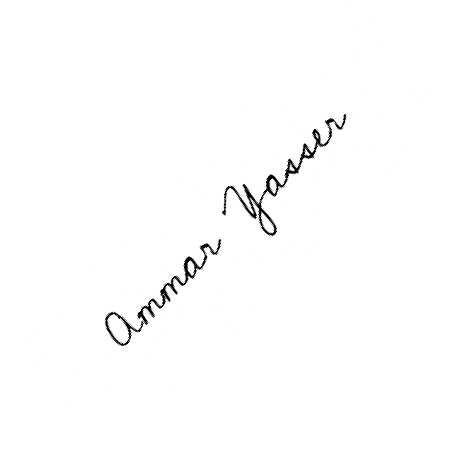
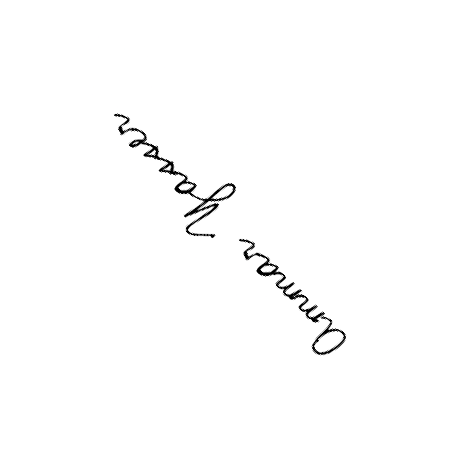
feat: add validation for image rotation and test cases
- Validate that the rotation angle is an integer.
- Check for the presence of the image ID.
- Add test cases to ensure the image rotation logic works correctly.
- Implement error handling for invalid angles and missing parameters.

diff --git a/api/tests/test_rotate_image.py b/api/tests/test_rotate_image.py
@@ -1,0 +1,60 @@
+from rest_framework.test import APITestCase
+from rest_framework import status
+from django.urls import reverse
+from django.core.files.uploadedfile import SimpleUploadedFile
+from PIL import Image
+import io
+from api.models import UploadedImage
+
+class TestRotateImageEndpoint(APITestCase):
+    valid_payload = {
+        'id': 1,  # Example image ID
+        'angle': 90  # Example rotation angle
+    }
+
+    def setUp(self):
+        # Create a valid image using PIL
+        image = Image.new('RGB', (100, 100), color='red')  # Create a red image of size 100x100
+        image_file = io.BytesIO()
+        image.save(image_file, format='JPEG')  # Save the image into the BytesIO object
+        image_file.seek(0)  # Go to the start of the BytesIO object
+        
+        # Create an image in the database
+        self.image = UploadedImage.objects.create(id=1, file=SimpleUploadedFile('test_image.jpg', image_file.read(), content_type='image/jpeg'))
+
+    def test_rotate_image_success(self):
+        url = reverse('rotate-image')
+        response = self.client.post(url, self.valid_payload, format='json')
+
+        print(response.data)  # Debugging response data to check any issues
+        self.assertEqual(response.status_code, status.HTTP_200_OK)
+        self.assertEqual(response.data['message'], 'Image rotated successfully.')
+
+    def test_rotate_image_invalid_angle(self):
+        invalid_payload = {
+            'id': 1,
+            'angle': 'invalid_angle'  # Invalid angle value
+        }
+        url = reverse('rotate-image')
+        response = self.client.post(url, invalid_payload, format='json')
+        self.assertEqual(response.status_code, status.HTTP_400_BAD_REQUEST)
+        self.assertEqual(response.data['error'], 'Angle must be a valid integer.')
+
+    def test_rotate_image_missing_parameters(self):
+        incomplete_payload = {
+            'id': 1  # Missing 'angle'
+        }
+        url = reverse('rotate-image')
+        response = self.client.post(url, incomplete_payload, format='json')
+        self.assertEqual(response.status_code, status.HTTP_400_BAD_REQUEST)
+        self.assertEqual(response.data['error'], 'Angle must be a valid integer.')
+
+    def test_rotate_image_not_found(self):
+        invalid_payload = {
+            'id': 9999,  # ID that doesn't exist
+            'angle': 90
+        }
+        url = reverse('rotate-image')
+        response = self.client.post(url, invalid_payload, format='json')
+        self.assertEqual(response.status_code, status.HTTP_404_NOT_FOUND)
+        self.assertEqual(response.data['error'], "Image not found.")

diff --git a/api/views.py b/api/views.py
@@ -74,14 +74,31 @@ class PDFDetailView(generics.RetrieveDestroyAPIView):
 def rotate_image(request):
     image_id = request.data.get('id')
     angle = request.data.get('angle')
+
+    # Validate that 'id' is provided
+    if not image_id:
+        return Response({"error": "Image ID is required."}, status=status.HTTP_400_BAD_REQUEST)
+
+    # Ensure the angle is a valid integer
+    try:
+        angle = int(angle)
+    except (ValueError, TypeError):
+        return Response({"error": "Angle must be a valid integer."}, status=status.HTTP_400_BAD_REQUEST)
+
+    # Try to get the image from the database
     try:
         image = UploadedImage.objects.get(id=image_id)
-        with Image.open(image.file.path) as img:
-            rotated = img.rotate(angle, expand=True)
-            rotated.save(image.file.path)
-        return Response({"message": "Image rotated successfully."}, status=status.HTTP_200_OK)
     except UploadedImage.DoesNotExist:
         return Response({"error": "Image not found."}, status=status.HTTP_404_NOT_FOUND)
+
+    # Try to open the image and rotate it
+    try:
+        img = Image.open(image.file.path)
+        img = img.rotate(angle)
+        img.save(image.file.path)  # You can save it to a different location or handle it differently if needed
+        return Response({"message": "Image rotated successfully."}, status=status.HTTP_200_OK)
+    except Exception as e:
+        return Response({"error": str(e)}, status=status.HTTP_500_INTERNAL_SERVER_ERROR)
 
 
 @api_view(['POST'])
